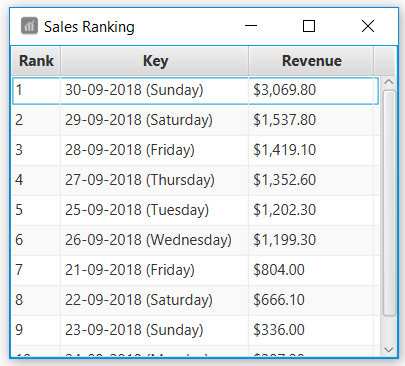
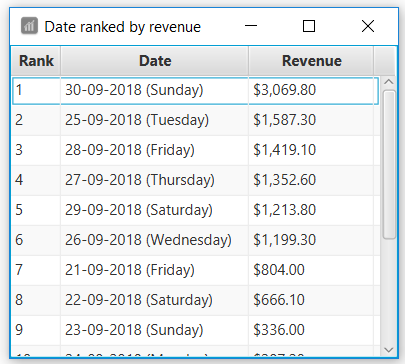
Replaces key with date/item in ranking window

diff --git a/src/main/java/seedu/restaurant/ui/sales/SalesRankingWindow.java b/src/main/java/seedu/restaurant/ui/sales/SalesRankingWindow.java
@@ -22,8 +22,13 @@ public class SalesRankingWindow extends UiPart<Stage> {
 
     private static final Logger logger = LogsCenter.getLogger(SalesRankingWindow.class);
     private static final String FXML = "SalesRankingWindow.fxml";
+    private static final String DATE_STRING = "Date";
+    private static final String ITEM_STRING = "Item";
+    private static final String DATE_WINDOW_TITLE = DATE_STRING + " ranked by revenue";
+    private static final String ITEM_WINDOW_TITLE = ITEM_STRING + " ranked by revenue";
 
     private Map<String, String> salesRanking;
+    private boolean isDateRanking;
 
     @FXML
     private TableView<Map.Entry<String, String>> rankingTable;
@@ -42,8 +47,9 @@ public class SalesRankingWindow extends UiPart<Stage> {
      */
     public SalesRankingWindow(Stage root, Map<String, String> salesRanking) {
         super(FXML, root);
-        root.setTitle("Sales Ranking");
         this.salesRanking = salesRanking;
+        isDateRanking = isDateRanking();
+        root.setTitle((isDateRanking) ? DATE_WINDOW_TITLE : ITEM_WINDOW_TITLE);
     }
 
     /**
@@ -72,7 +78,15 @@ public class SalesRankingWindow extends UiPart<Stage> {
         rank.setCellValueFactory(e -> new SimpleStringProperty(
                 String.valueOf(Index.fromZeroBased(salesRankingList.indexOf(e.getValue())).getOneBased())));
         dateOrItem.setCellValueFactory(e -> new SimpleStringProperty(e.getValue().getKey()));
+        dateOrItem.setText((isDateRanking) ? DATE_STRING : ITEM_STRING);
         revenue.setCellValueFactory(e -> new SimpleStringProperty(e.getValue().getValue()));
+    }
+
+    /**
+     * Returns true if this ranking is a date-revenue ranking. False if it is an item-revenue ranking.
+     */
+    private boolean isDateRanking() {
+        return salesRanking.keySet().stream().anyMatch(s -> s.contains("-"));
     }
 
     /**
